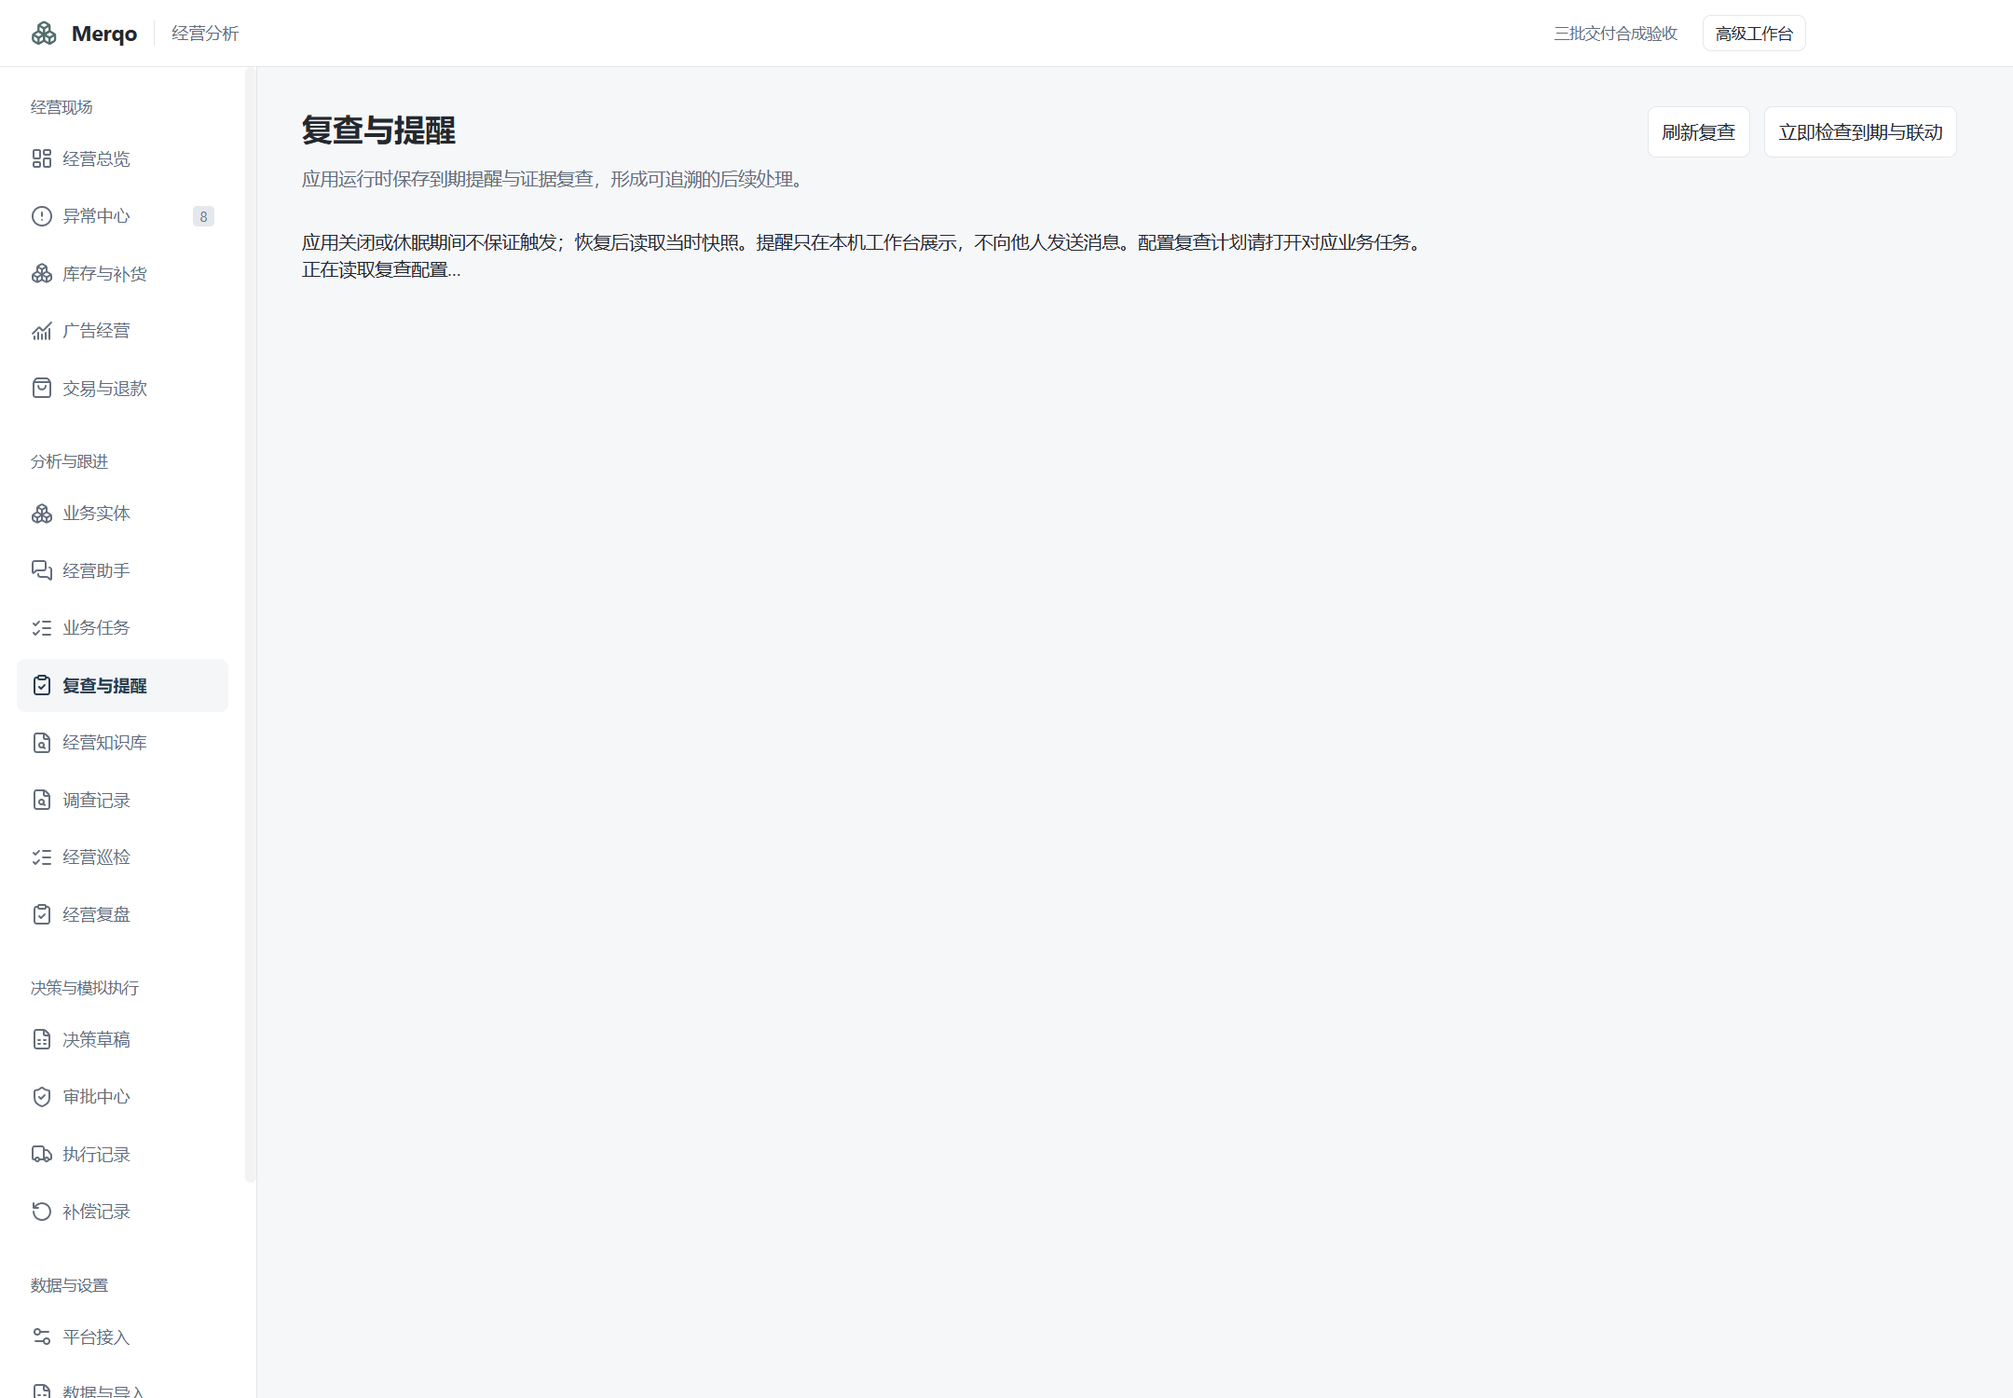
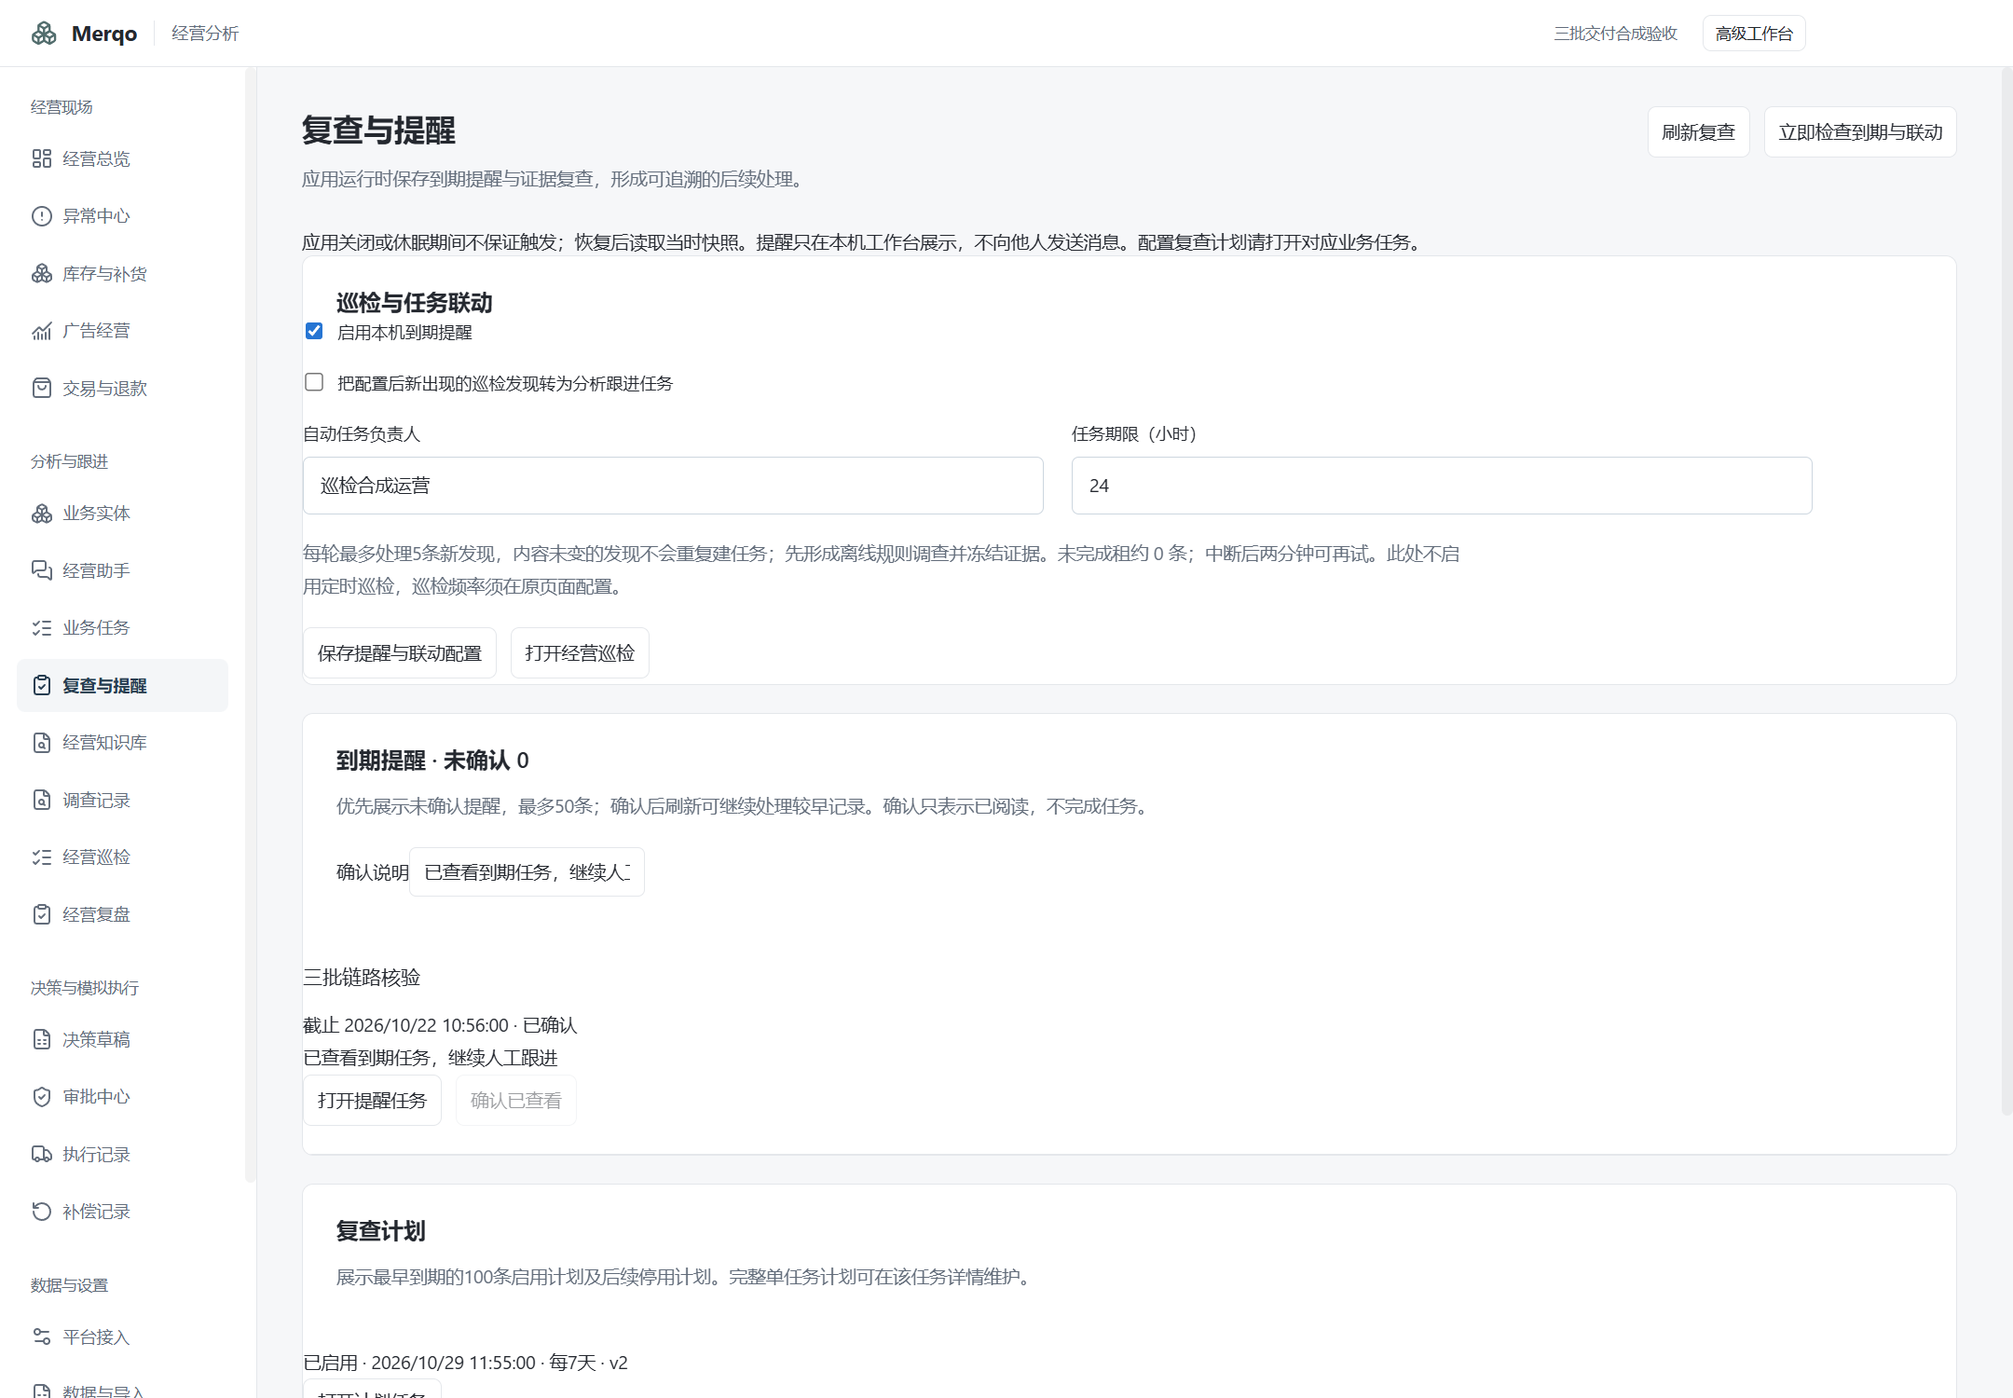
docs(release): record beta7 installed acceptance and publish download

diff --git a/packages/retail-domain/src/workbench.test.ts b/packages/retail-domain/src/workbench.test.ts
@@ -97,3 +97,16 @@ test('schema 9 migration backs up before schema10; backup/restore retains conver
  decisions.close();const db=new Database(file+'.investigations.sqlite');db.exec('DELETE FROM decision_schema;INSERT INTO decision_schema VALUES(9);PRAGMA user_version=9');db.close();decisions=new DecisionStore(file,'workbench-space',current);expect(readdirSync(join(dir,'retail')).some(n=>n.includes('.backup-v9-'))).toBe(true);
  const inventory=backupInventory(join(dir,'retail')),payload=captureBackup(join(dir,'retail'),'workbench-space','测试',[],inventory.connectionHash),target=join(dir,'restored');restoreBackup(payload,target);const restored=new DecisionStore(join(target,'retail/operations.sqlite'),'workbench-space',current);try{expect(as(restored.workbench({op:'wb_case',id:c.id}),'case').item).toEqual(c);expect(as(restored.workbench({op:'wb_conversations',entityId}),'conversations').items).toHaveLength(1);expect(as(restored.workbench({op:'wb_library'}),'library').items).toHaveLength(1);expect(as(restored.workbench({op:'wb_followups'}),'followups').plans).toHaveLength(1);}finally{restored.close();}
 });
+
+test('actual schema9 layout without any workbench tables upgrades while preserving the existing task and backup',async()=>{
+ const original=await task();decisions.close();const old=new Database(file+'.investigations.sqlite');
+ for(const row of old.query<{name:string},[]>("SELECT name FROM sqlite_master WHERE type='table' AND name LIKE 'wb_%'").all()){
+   if(!/^wb_[a-z_]+$/.test(row.name))throw Error('Unexpected fixture table');old.exec(`DROP TABLE ${row.name}`);
+ }
+ old.exec('DELETE FROM decision_schema;INSERT INTO decision_schema VALUES(9);PRAGMA user_version=9');old.close();
+ decisions=new DecisionStore(file,'workbench-space',current);expect(decisions.task(original.id).task).toEqual(original);
+ expect(as(wb({op:'wb_followups'}),'followups').config.version).toBe(1);
+ expect(as(wb({op:'wb_entity',entityId:original.entityKey,period}),'entity').detail.tasks[0]!.id).toBe(original.id);
+ const backupName=readdirSync(join(dir,'retail')).find(n=>n.includes('.backup-v9-'))!;expect(backupName).toBeDefined();
+ const backup=new Database(join(dir,'retail',backupName),{readonly:true});try{expect(backup.query('PRAGMA user_version').get()).toEqual({user_version:9});expect(backup.query("SELECT count(*) n FROM sqlite_master WHERE type='table' AND name LIKE 'wb_%'").get()).toEqual({n:0});expect(backup.query('SELECT count(*) n FROM business_tasks').get()).toEqual({n:1});}finally{backup.close();}
+});

diff --git a/README.md b/README.md
@@ -14,7 +14,7 @@ Built on the Craft Agents desktop codebase using **Electron, React, TypeScript, 
 
 The retail navigation now follows business scenes: **经营现场 → 分析与跟进 → 决策与模拟执行 → 数据与设置**. Inventory/replenishment and advertising have separate pages; **经营助手** links to the existing anomaly investigation workflows. Shared page headers, consistent guidance/action spacing and two-column forms stack into one column in narrow windows. General conversations, user labels and technical sources remain in the explicitly labeled **高级工作台**. See the [first-batch implementation scope](docs/UI-business-workbench-2026-10-21.md) and [36-page-check acceptance with screenshots](docs/verification/business-workbench-2026-10-21/report.md).
 
-**Three-batch local workflow:** business entities now connect exact source/shop/product scopes to evidence, investigations, decisions and tasks. Entity questions freeze their window/context and use the configured isolated model with validated citations; offline mode is explicitly a guide. Business tasks retain owner/deadline/status history, original approval links and simulation receipt gates. Local reminders, recurring snapshot reviews and opt-in inspection-to-task automation lead into versioned scene tags, methods, topics and immutable cases, with JSON export and same-scope retrieval. See the [delivery route and limits](docs/three-batch-delivery-2026-10-22.md). The beta.7 installer is being prepared; beta.6 does not contain these additions. Schema 10 creates a migration backup; older versions must not open an upgraded profile.
+**Three-batch local workflow:** business entities now connect exact source/shop/product scopes to evidence, investigations, decisions and tasks. Entity questions freeze their window/context and use the configured isolated model with validated citations; offline mode is explicitly a guide. Business tasks retain owner/deadline/status history, original approval links and simulation receipt gates. Local reminders, recurring snapshot reviews and opt-in inspection-to-task automation lead into versioned scene tags, methods, topics and immutable cases, with JSON export and same-scope retrieval. See the [delivery route and limits](docs/three-batch-delivery-2026-10-22.md). The **beta.7 Windows installer is published** with these additions. Schema 10 creates a migration backup; older versions must not open an upgraded profile.
 
 The current source and the published **0.1.0-beta.6 Windows installer** include the operational workflows below. See the [release and installation acceptance](docs/release-beta6-2026-10-21.md). Whole-line exchange cash-flow reconciliation is also available in **交易与退款 → 换货差价核对**; it preserves declared agreements and frozen evidence, and does not post credits or mark replacement orders settled. See the [contract](docs/P1-exchange-settlement-2026-10-21.md). Refund-adjusted advertising reconciliation is available in **广告经营 → 广告退款后归因核对**, with explicit order links, touch windows, overlapping-campaign shares and provisional coverage labels. It uses declared spend/attribution and ledger settlement, not authenticated platform ROAS or profit; see the [contract](docs/P1-ad-refund-2026-10-21.md). Both operational pages include in-page module navigation. FEFO planning and reviewed batch reservations are available inside **库存与补货 → 仓库收发存与调拨**. Plans exclude unknown/expired/quarantined and already-reserved quantities, bind the reviewed inventory state, and require explicit confirmation; see the [contract](docs/P1-warehouse-picking-2026-10-21.md). The beta.6 release acceptance passed **371 domain tests and 3,362 assertions**, domain/Electron type checks, main/renderer builds, and the warehouse desktop workflow with an actual process restart. See the [verification record](docs/verification/warehouse-picking-2026-10-21/report.md) and [development route](docs/development-progress-2026-10-20.md).
 
@@ -63,19 +63,13 @@ Retail workspaces enforce read-only tools in general Agent conversations, includ
 
 ## Download the desktop app
 
-The source now fixes the inherited 0.11.4 display and checks **RXQ6/Merqo GitHub Releases**, including beta releases. It labels source runs as development builds, reports failed checks explicitly, and links to manual installer downloads. The beta.6 installer includes this correction; old beta.5 installations require a manual upgrade. See the [version/update fix and desktop acceptance](docs/update-check-fix-2026-10-21.md).
+The latest preview is **0.1.0-beta.7**, including all three local workflow batches. **391 domain tests / 3,526 assertions**, an additional real schema-9-layout migration check, and **34 actual Windows installation checks** passed. See the [release notes](docs/release-beta7-2026-10-22.md), [three-batch scope](docs/three-batch-delivery-2026-10-22.md), and [acceptance record](docs/verification/three-batches-2026-10-22/report.md).
 
-The beta.6 preview includes the version/update fix, business navigation and the operational workflows above. **30 local installer acceptance checks passed**, including version detection, restart, data-preserving reinstall and uninstall. See the [release and installation acceptance](docs/release-beta6-2026-10-21.md). Full PRD scope remains incomplete.
+**[Download Merqo for Windows x64 — 0.1.0-beta.7](https://github.com/RXQ6/Merqo/releases/download/v0.1.0-beta.7/Merqo-Setup-0.1.0-beta.7-x64.exe)**
 
-**[Download Merqo for Windows x64 — 0.1.0-beta.6](https://github.com/RXQ6/Merqo/releases/download/v0.1.0-beta.6/Merqo-Setup-0.1.0-beta.6-x64.exe)**
+[GitHub release](https://github.com/RXQ6/Merqo/releases/tag/v0.1.0-beta.7) · [SHA-256 checksums](https://github.com/RXQ6/Merqo/releases/download/v0.1.0-beta.7/SHA256SUMS.txt) · [Installation and data locations](docs/windows-preview.md)
 
-[Release notes](https://github.com/RXQ6/Merqo/releases/tag/v0.1.0-beta.6) · [SHA-256 checksums](https://github.com/RXQ6/Merqo/releases/download/v0.1.0-beta.6/SHA256SUMS.txt) · [Installation and data locations](docs/windows-preview.md)
-
-Run the installer, launch Merqo and select **经营分析 → 数据与导入 → 载入演示数据**. Retail analysis includes its own Bun runtime, data worker, MCP and Skills; you do not need Node.js or Bun. If Git Bash is absent, select **仅使用经营分析** on first launch. Git for Windows is still needed for the general Agent's shell tools. Configure your own model connection only when requesting a model investigation.
-
-This Windows x64 preview was tested on Windows 11. It is not code-signed, so Windows may show an unknown-publisher or SmartScreen prompt. Check the source and SHA-256 before running it. Updates are downloaded manually from Releases. Uninstall retains user data; the development `.runtime` profile is not automatically migrated.
-
-The beta.5 installer passed 27 checks on Windows 11: isolated installation, three-scenario bundled MCP/protocol checks, pause/restart/resume, simulated execution, pagination, extended transactions, dynamic DeepSeek models, normal restart, same-version reinstall and uninstall. Cross-version NSIS upgrades remain untested. See the [verification record](docs/release-beta5-2026-10-20.md).
+Updates use **RXQ6/Merqo GitHub Releases**, including betas, with manual installer downloads. Version checks distinguish development builds and failed requests. Schema 10 creates a migration backup; beta.6 must not open upgraded profiles. This unsigned preview does not complete real-platform or external-Windows PRD gates.
 
 ## Build from source
 

diff --git a/docs/verification/three-batches-2026-10-22/report.md b/docs/verification/three-batches-2026-10-22/report.md
@@ -32,4 +32,18 @@
 
 ## 安装与外部边界
 
-beta.7安装验收结果将在完成后补充。真实平台授权、多用户可信身份、真实执行/因果收益、干净及跨版本Windows、签名信誉不在本机测试中伪装为完成。完整交付范围见[三批总表](../../three-batch-delivery-2026-10-22.md)。
+beta.7安装验收已通过，见后续记录。真实平台授权、多用户可信身份、真实执行/因果收益、干净及跨版本Windows、签名信誉不在本机测试中伪装为完成。完整交付范围见[三批总表](../../three-batch-delivery-2026-10-22.md)。
+
+## beta.7实际安装验收
+
+34条安装检查全部通过：隔离NSIS安装、包内Bun与MCP、三场景调查协议、审批和模拟回执、交易扩展、动态模型列表、版本与GitHub失败/重试、三批完整业务链路、宽窄窗口和实际重启、同版本重装保留数据、卸载保留配置。截图已更新为实际安装版。
+
+[安装记录](installer-result.json)、[安装版业务链路](installed-business-result.json)、[构建与摘要](build-provenance.json)。源自干净提交`a95e556017c290f9f02d093b4f22abcfbba7d65f`，sourceDirty=false。
+
+391项完整领域回归、3526断言通过；另补真正没有wb_*新表的schema9升级用例，1项、9断言通过，验证原任务保留且升级前备份仍为schema9。该用例没有替代干净系统或跨版本NSIS验收。
+
[1 lines of base64/hex data omitted]
+
+## 加载完成后的可视检查
+
+截图复核发现提醒页原先截到了加载状态，因此补跑独立只读可视验收：实际打包程序与已验收配置，等待实体上下文、提醒内容和案例详情加载完成后，1440/800宽度的六项检查全部通过。新截图已替换；见[加载后尺寸结果](loaded-visual-result.json)，脚本scripts/merqo-workbench-visual-check.cjs。只修正测试等待与验收证据，未改动发布包业务代码。

diff --git a/docs/three-batch-delivery-2026-10-22.md b/docs/three-batch-delivery-2026-10-22.md
@@ -2,6 +2,18 @@
 
 日期：2026-10-22。本文跟踪本轮三批本地桌面开发。真实平台授权、可信多人审批、真实经营执行和外部Windows验收是单列的外部工作，不以本地模拟替代。
 
+## 最终交付状态
+
+三批本地开发全部完成，已公开发布[beta.7](https://github.com/RXQ6/Merqo/releases/tag/v0.1.0-beta.7)。
+
+| 批次 | 开发与本机验收 | 安装包 |
+| --- | --- | --- |
+| 第一批：场景导航与排版 | 完成 | beta.6起，beta.7保留 |
+| 第二批：实体、上下文助手、任务及审批关联 | 完成 | beta.7 |
+| 第三批：巡检联动、提醒复查、知识与案例复用 | 完成 | beta.7 |
+
+391项完整领域回归、3526断言及独立旧schema9布局迁移检查通过；34条安装验收通过。安装版完整链路、宽窄窗口、重启、同版本重装和卸载均已验证。外部条件见文末，未把它们标成完成。
+
 ## 一条完整链路
 
 导入/只读同步 → 经营异常 → 选择业务实体与日期窗口 → 查原始事实及关联调查 → 带冻结上下文提问 → 调查与补证、比较方案 → 创建业务任务 → 打开原方案审批与本地模拟执行 → 到期提醒/快照复查 → 归档人工分析或模拟案例 → 在同范围实体中检索经验。
@@ -32,7 +44,7 @@
 
 ## 验收与交付记录
 
-源代码领域回归、类型检查、桌面完整链路、宽窄窗口、重启和安装包验收会在本轮完成后写入[三批验收目录](verification/three-batches-2026-10-22/report.md)。桌面脚本为`scripts/merqo-three-batches-check.cjs`；所有数据为隔离合成数据，模型为本机HTTP协议夹具，不冒充真实模型质量评测。
+源代码领域回归、类型检查、桌面完整链路、宽窄窗口、重启和安装包验收已记录于[三批验收目录](verification/three-batches-2026-10-22/report.md)。桌面脚本为`scripts/merqo-three-batches-check.cjs`；所有数据为隔离合成数据，模型为本机HTTP协议夹具，不冒充真实模型质量评测。
 
 ## 仍需外部条件的工作
 

diff --git a/docs/development-progress-2026-10-20.md b/docs/development-progress-2026-10-20.md
@@ -1,6 +1,6 @@
 # 开发主线与当前位置
 
-2026-10-22 三批本地场景化链路已实现：实体聚合与冻结上下文问答、业务任务、巡检转任务、到期提醒及快照复查、版本化场景知识、案例归档/导出/同范围复用。正在完成桌面与beta.7安装验收。以[三批交付总表](three-batch-delivery-2026-10-22.md)为当前范围，下面的第二批未完说明是此前进度记录。真实授权、真实经营执行及外部Windows条件另列。
+2026-10-22 三批本地场景化链路已实现：实体聚合与冻结上下文问答、业务任务、巡检转任务、到期提醒及快照复查、版本化场景知识、案例归档/导出/同范围复用。桌面与beta.7的34条安装验收通过，[安装包已公开发布](https://github.com/RXQ6/Merqo/releases/tag/v0.1.0-beta.7)。以[三批交付总表](three-batch-delivery-2026-10-22.md)为当前范围，下面的第二批未完说明是此前进度记录。真实授权、真实经营执行及外部Windows条件另列。
 
 2026-10-22 第二批新增业务任务：调查/方案版本 → 冻结业务与证据上下文 → 负责人/截止/优先级 → 状态与历史跟进 → 原审批和模拟执行记录。380项领域回归通过，桌面创建、处理、逾期与重启通过。第二批的实体聚合和带上下文助手尚待开发，第三批的自动复查/场景方法/案例仍在后续；见[三批路线与任务交付](P2-business-tasks-2026-10-22.md)。当前仅源码，未更新beta.6安装包。
 

diff --git a/docs/release-beta7-2026-10-22.md b/docs/release-beta7-2026-10-22.md
@@ -13,4 +13,6 @@
 
 真实店铺接入、可信多人审批、真实平台执行、真实经营效果、干净或其他Windows环境、代码签名仍待外部条件。本版是未签名的Windows x64预览。
 
-发布前正在进行源码、桌面和安装验收；完成记录与安装包摘要将在验收通过后补充。
+已完成391项领域回归、3526断言与独立schema9迁移检查，34条实际安装验收通过。构建源于干净提交`a95e556017c290f9f02d093b4f22abcfbba7d65f`；见[完整验收](verification/three-batches-2026-10-22/report.md)。
+
[1 lines of base64/hex data omitted]
